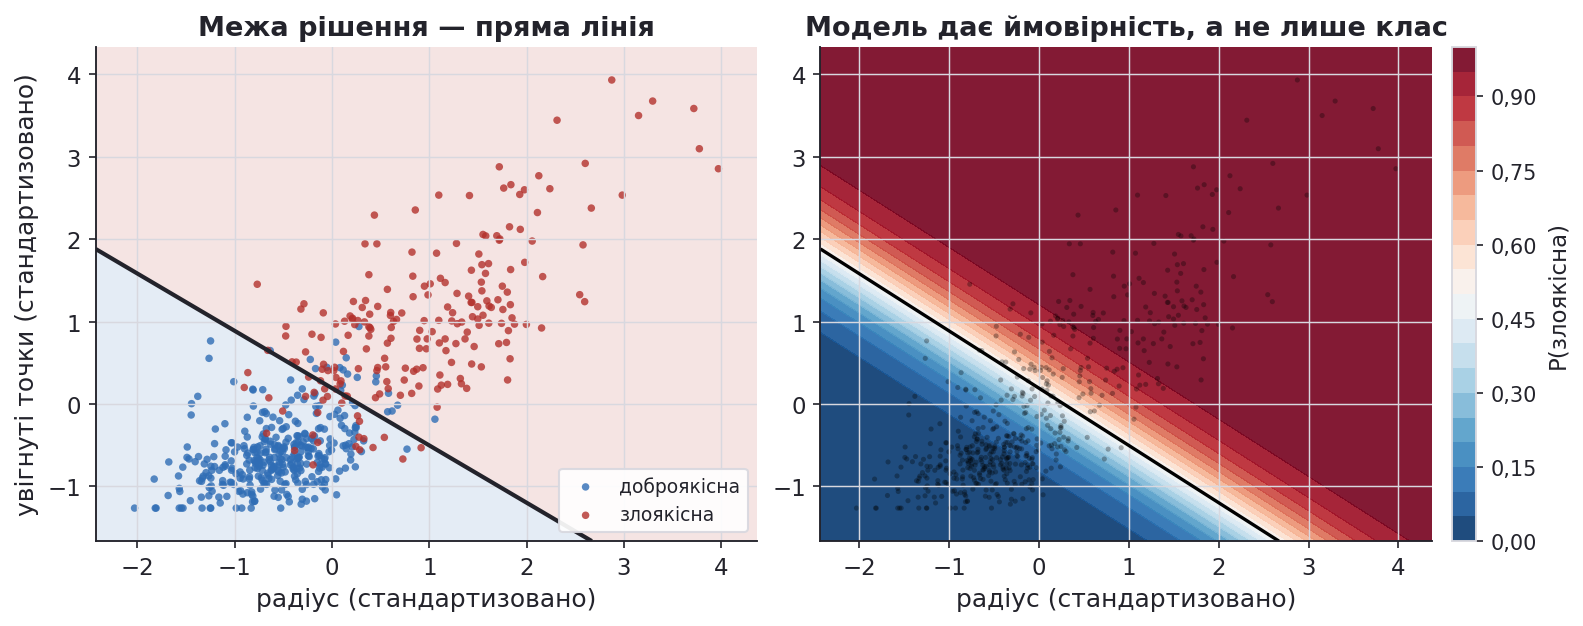
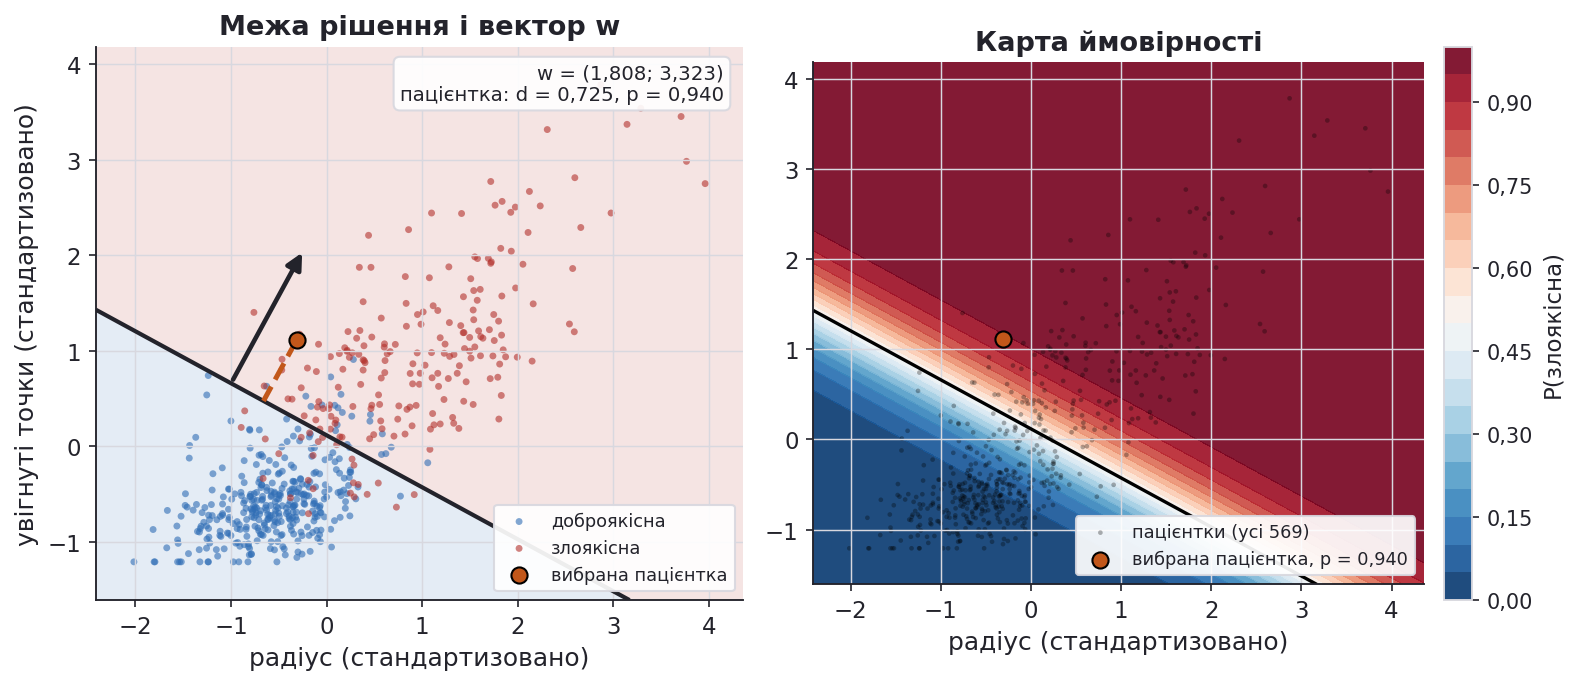
Л05: звідки вектор w і чому він перпендикулярний межі; похідна сигмоїди в градієнті
- розділ «Геометрія»: код на двох стандартизованих ознаках друкує
  w = (1,808; 3,323), w₀ = −0,389, ‖w‖ = 3,783, дві точки межі і
  w·(B − A) = 0, а для пацієнтки з рисунка — g, відстань d і p;
  перпендикулярність виведено цими числами
- рисунок 05_05: та сама модель, стрілка w, перпендикуляр від пацієнтки,
  легенда точок на карті ймовірності, рівний масштаб осей
- розділ про градієнт: σ′ = σ(1 − σ), похідна доданка втрати за z дорівнює
  σ − y, правило ланцюга; код звіряє (σ − y)·x із чисельною похідною
- SigmoidLab: кнопка з ‖w‖ нашої моделі

Claude-Session: https://claude.ai/code/session_01WX2uTNp457pE42uBSRfkQq

diff --git a/.vitepress/theme/components/SigmoidLab.vue b/.vitepress/theme/components/SigmoidLab.vue
@@ -8,6 +8,7 @@
  * браузерну звірку віджета з цим файлом робить course-site/check_lec05_widgets.mjs.
  */
 import { ref, computed } from 'vue'
+import data from '../../data/lec05_sigmoid.json'
 
 const d = ref(2)
 const norm = ref(1)
@@ -23,6 +24,8 @@ const PRESETS = [
   { label: 'z = −2', d: -2, w: 1 },
   { label: 'p = 0,9', d: Math.log(9), w: 1 },  // log 9 = 2,197
   { label: 'd = 1, ‖w‖ = 5', d: 1, w: 5 },
+  // довжина вектора ваг моделі з рисунка (код розділу «Геометрія»)
+  { label: `‖w‖ нашої моделі = ${String(data.model_norm.toFixed(3)).replace('.', ',')}, d = 0,5`, d: 0.5, w: data.model_norm },
 ]
 const isOn = (pr: { d: number; w: number }) =>
   Math.abs(d.value - pr.d) < 1e-9 && Math.abs(norm.value - pr.w) < 1e-9
@@ -100,6 +103,8 @@ const fOdds = (v: number) =>
       ‖w‖ = 1 точка отримує 0,731, при ‖w‖ = 5 — уже 0,993. Межа рішення
       (d = 0) при цьому не рухається: довжина вектора ваг змінює лише те, як
       різко модель перемикається з «ні» на «так», тобто її впевненість.
+      Остання кнопка ставить довжину вектора ваг нашої моделі з рисунка,
+      3,783: уже на відстані 0,5 від межі ймовірність 0,869.
     </p>
   </div>
 </template>

diff --git a/lectures/05.md b/lectures/05.md
@@ -210,6 +210,66 @@ $$p(y = 1 \mid x) = \sigma\!\left(x^\top w + w_0\right), \qquad p(y = 0 \mid x) 
 
 **Вектор $w$ ортогональний до межі** і вказує напрям найшвидшого зростання ймовірності. Його довжина визначає крутість переходу: $x^\top w + w_0 = \|w\| \cdot d(x)$, де $d(x)$ — відстань зі знаком від точки до межі, тож $p = \sigma(\|w\|\, d)$. Точка на відстані 1 від межі при $\|w\| = 1$ отримує ймовірність 0,731, а при $\|w\| = 5$ — уже 0,993.
 
+Перевіримо це на моделі з рисунка: логістична регресія на двох стандартизованих ознаках — радіусі й увігнутих точках, — навчена на 398 пацієнтках навчальної частини.
+
+
+<CodeFold title="Навчаємо модель на двох ознаках і перевіряємо геометрію вектора w" :lines="24" sec="1.6">
+
+```python
+import numpy as np
+from sklearn.datasets import load_breast_cancer
+from sklearn.linear_model import LogisticRegression
+from sklearn.model_selection import train_test_split
+from sklearn.preprocessing import StandardScaler
+
+data = load_breast_cancer()
+col = list(data.feature_names).index
+X2 = data.data[:, [col("mean radius"), col("mean concave points")]]
+y2 = (data.target == 0).astype(int)  # 1 = злоякісна
+split = train_test_split(X2, y2, test_size=0.3, stratify=y2, random_state=0)
+X_tr, X_te, y_tr, y_te = split
+sc = StandardScaler().fit(X_tr)  # стандартизація за навчальною частиною
+geo = LogisticRegression().fit(sc.transform(X_tr), y_tr)
+w, w0 = geo.coef_[0], geo.intercept_[0]
+norm = np.linalg.norm(w)
+print(f"w = ({w[0]:.3f}; {w[1]:.3f}), w0 = {w0:.3f}, ‖w‖ = {norm:.3f}")
+A, B = (np.array([x1, -(w0 + w[0] * x1) / w[1]]) for x1 in (-1.0, 1.0))  # точки межі
+print(f"A = ({A[0]:.3f}; {A[1]:.3f}), B = ({B[0]:.3f}; {B[1]:.3f})", end="")
+print(f", w·(B − A) = {w @ (B - A):.1e}")
+x = sc.transform(X_te[[127]])[0]  # пацієнтка, позначена на рисунку
+g = w @ x + w0
+print(f"пацієнтка: g(x) = {g:.3f}, d = {g / norm:.3f}, p = {1 / (1 + np.exp(-g)):.3f}")
+print(f"на відстані d = 0,5 від межі: p = {1 / (1 + np.exp(-0.5 * norm)):.3f}")
+```
+
+</CodeFold>
+
+<RunOutput>
+
+```text:no-line-numbers
+w = (1.808; 3.323), w0 = -0.389, ‖w‖ = 3.783
+A = (-1.000; 0.661), B = (1.000; -0.427), w·(B − A) = 0.0e+00
+пацієнтка: g(x) = 2.744, d = 0.725, p = 0.940
+на відстані d = 0,5 від межі: p = 0.869
+```
+
+<template #note>
+
+*На що дивитися: w = (1,808; 3,323) і w₀ = −0,389 задають межу 1,808·x₁ + 3,323·x₂ − 0,389 = 0; добуток w·(B − A) дорівнює нулю — w перпендикулярний межі; вибрана пацієнтка лежить на відстані 0,725 від межі й отримує p = 0,940.*
+
+</template>
+
+</RunOutput>
+
+
+**Звідки перпендикулярність.** Межа — це множина точок, де $g(x) = w^\top x + w_0 = 0$. Візьмімо на ній дві точки з виводу, $A = (-1;\ 0{,}661)$ і $B = (1;\ -0{,}427)$: вектор $B - A$ лежить уздовж межі. Оскільки в обох точках $w \cdot x = -w_0$,
+
+$$w \cdot (B - A) = w \cdot B - w \cdot A = (-w_0) - (-w_0) = 0,$$
+
+і код показує це числом: добуток дорівнює нулю з точністю до похибки округлення. Отже, $w$ перпендикулярний межі, а вказує туди, де $g(x)$ зростає, — до злоякісних.
+
+Пацієнтка, позначена на рисунку, лежить по злоякісний бік: $g(x) = 2{,}744$, відстань до межі $d = 2{,}744 / 3{,}783 = 0{,}725$, і модель дає їй $p = \sigma(2{,}744) = 0{,}940$. Для нашої моделі $\|w\| = 3{,}783$, тож уже на відстані 0,5 стандартної одиниці від межі ймовірність дорівнює 0,869.
+
 **Модуль $|x^\top w + w_0|$ — це впевненість.** Далеко від межі ймовірності близькі до 0 або 1, поряд із межею — близькі до 0,5. Саме тому модель віддає не лише клас, а й міру сумніву, і це головна її перевага перед простим правилом «так або ні».
 
 На рисунку ліворуч — дискретне рішення, праворуч — неперервна карта ймовірності тієї самої моделі. У віджеті під рисунком можна пройти весь ланцюжок «відстань → логіт → шанси → імовірність» і змінити $\|w\|$.
@@ -217,7 +277,7 @@ $$p(y = 1 \mid x) = \sigma\!\left(x^\top w + w_0\right), \qquad p(y = 0 \mid x) 
 
 <Figure src="/figs/own/lec05_05_05_decision_boundary.png" alt="logistic decision boundary and probability map on breast cancer">
 
-*Модель на двох стандартизованих ознаках — радіусі й увігнутих точках; чорна лінія — межа, на якій ймовірність дорівнює 0,5.*
+*Модель на двох стандартизованих ознаках — радіусі й увігнутих точках; показано всіх 569 пацієнток. Чорна лінія — межа, де ймовірність дорівнює 0,5; стрілка — напрям вектора w (довжину вкорочено), пунктир — перпендикуляр від вибраної пацієнтки до межі.*
 
 </Figure>
 
@@ -274,11 +334,59 @@ $$\mathcal{L} = \frac{0{,}030 + 0{,}198 + 0{,}478 + 0{,}083 + 0{,}010}{5} = 0{,}
 
 ## Градієнт має той самий вигляд, що в методі найменших квадратів
 
-Щоб мінімізувати перехресну ентропію, потрібна її похідна за вагами. Викладки дають напрочуд знайомий результат:
+Щоб мінімізувати перехресну ентропію, потрібна її похідна за вагами. Викладка коротка, бо в сигмоїди зручна похідна. Із $\sigma(z) = (1 + e^{-z})^{-1}$ маємо
+
+$$\sigma'(z) = \frac{e^{-z}}{(1 + e^{-z})^2} = \sigma(z)\,\bigl(1 - \sigma(z)\bigr),$$
+
+наприклад, при $z = 2$: $0{,}881 \cdot 0{,}119 = 0{,}105$. Візьмімо один доданок втрати $\ell = -\bigl[y \log\sigma(z) + (1 - y)\log(1 - \sigma(z))\bigr]$ при $z = x^\top w$. Його похідна за $z$:
+
+$$\frac{\partial \ell}{\partial z} = -\Bigl[y\,\frac{\sigma'}{\sigma} - (1 - y)\,\frac{\sigma'}{1 - \sigma}\Bigr] = -\bigl[y(1 - \sigma) - (1 - y)\sigma\bigr] = \sigma(z) - y.$$
+
+Множник $\sigma(1 - \sigma)$ скорочує обидва знаменники — і саме тут з'являється «прогноз мінус мітка». За правилом ланцюга $\partial z / \partial w = x$, тож $\nabla_w \ell = (\sigma(x^\top w) - y)\,x$. Усереднивши по вибірці, отримуємо напрочуд знайомий результат:
 
 $$\nabla \mathcal{L}(w) = \frac{1}{N}\sum_{n=1}^{N}\bigl(\sigma(x_n^\top w) - y_n\bigr)\,x_n \;=\; \frac{1}{N}\,X^\top\bigl(\sigma(Xw) - y\bigr)$$
 
 Порівняйте з градієнтом методу найменших квадратів із лекції 02: $\frac{1}{N}X^\top(Xw - y)$. Різниця рівно одна — прогноз пропущено через сигмоїду. Структура «(прогноз мінус мітка), зважена на ознаки» зберігається, і вона ж повториться в нейронних мережах у лекції 10.
+
+Перевіримо формулу числом на пацієнтці з попереднього розділу: порахуємо $(\sigma - y)\,x$ і порівняємо з чисельною похідною — різницею втрат при малому зсуві кожної ваги.
+
+
+<CodeFold title="Звіряємо градієнт (σ − y)·x з чисельною похідною" :lines="13" sec="0.0" cont>
+
+```python
+# продовження: спирається на попередні блоки лекції
+xb, wb = np.r_[x, 1.0], np.r_[w, w0]  # одиниця в ознаках — під зсув w0
+yb = y_te[127]  # справжня мітка пацієнтки: 1 — злоякісна
+s = 1 / (1 + np.exp(-xb @ wb))
+analytic = (s - yb) * xb  # «прогноз мінус мітка», помножене на ознаки
+h = 1e-6  # чисельно: зсуваємо кожну вагу на ±h і дивимося, як змінилася втрата
+V = wb + h * np.vstack([np.eye(3), -np.eye(3)])
+P = 1 / (1 + np.exp(-V @ xb))
+L = -(yb * np.log(P) + (1 - yb) * np.log(1 - P))  # втрата для кожного зсуву
+numeric = (L[:3] - L[3:]) / (2 * h)
+print(f"σ(z) = {s:.4f}, σ′(z) = σ(1 − σ) = {s * (1 - s):.4f}")
+print("аналітичний (σ − y)·x:", np.round(analytic, 4))
+print("чисельний:            ", np.round(numeric, 4))
+```
+
+</CodeFold>
+
+<RunOutput>
+
+```text:no-line-numbers
+σ(z) = 0.9396, σ′(z) = σ(1 − σ) = 0.0568
+аналітичний (σ − y)·x: [ 0.019  -0.0673 -0.0604]
+чисельний:             [ 0.019  -0.0673 -0.0604]
+```
+
+<template #note>
+
+*На що дивитися: аналітичний градієнт (σ − y)·x і чисельна похідна збігаються до четвертого знака; σ′ у цій точці лише 0,0568, бо пацієнтка далеко від межі, а найбільша похідна сигмоїди, 0,25, — у нулі.*
+
+</template>
+
+</RunOutput>
+
 
 Є й важлива відмінність: рівняння $\nabla\mathcal{L}(w) = 0$ **не має розв'язку в замкненій формі**. Аналогу нормального рівняння тут немає, тому ваги шукають чисельно.
 
@@ -315,7 +423,7 @@ $$\nabla \mathcal{L}(w) = \frac{1}{N}\sum_{n=1}^{N}\bigl(\sigma(x_n^\top w) - y_
 Кілька десятків рядків numpy, щоб було видно, що всередині немає магії — лише формули з попередніх розділів.
 
 
-<CodeFold title="Пишемо логістичну регресію з нуля: сигмоїда, перехресна ентропія, градієнтний спуск" :lines="34" sec="1.5">
+<CodeFold title="Пишемо логістичну регресію з нуля: сигмоїда, перехресна ентропія, градієнтний спуск" :lines="34" sec="0.6">
 
 ```python
 import numpy as np
@@ -382,7 +490,7 @@ print(f", ‖w‖ = {np.linalg.norm(w[:-1]):.1f}")
 У робочому коді ніхто не пише градієнтний спуск руками. Бібліотечна реалізація додає регуляризацію, кращий оптимізатор і перевірки коректності.
 
 
-<CodeFold title="Навчаємо логістичну регресію в scikit-learn і читаємо звіт класифікації" :lines="25" sec="0.1">
+<CodeFold title="Навчаємо логістичну регресію в scikit-learn і читаємо звіт класифікації" :lines="25" sec="0.0">
 
 ```python
 from sklearn.datasets import load_breast_cancer
@@ -819,7 +927,7 @@ print("наївний Баєс, верхній кошик:", top)
 Порівняємо три способи. **Зважування класів** (`class_weight='balanced'`) множить внесок кожного прикладу класу $k$ у втрату на $w_k = N/(K\,n_k)$, де $N$ — розмір навчальної частини, $K = 2$ — кількість класів, $n_k$ — кількість прикладів класу. Тоді $n_k w_k = N/K$: сумарна вага кожного класу однакова, а загальна лишається $N$. Код нижче друкує ці ваги. **Передискретизація** (*oversampling*) досягає того самого інакше: випадково дублює шахрайські транзакції навчальної частини, доки їх не стане стільки ж, скільки звичайних. **Поріг за ціною** не чіпає модель: тривога вигідна, коли очікувана втрата від мовчання більша за втрату від тривоги, $p \cdot C_{FN} > (1 - p) \cdot C_{FP}$, тобто коли $p > C_{FP}/(C_{FP} + C_{FN})$.
 
 
-<CodeFold title="Порівнюємо зважування класів, передискретизацію й поріг за ціною помилок" :lines="49" sec="3.3" cont>
+<CodeFold title="Порівнюємо зважування класів, передискретизацію й поріг за ціною помилок" :lines="49" sec="3.4" cont>
 
 ```python
 # продовження: спирається на попередні блоки лекції
